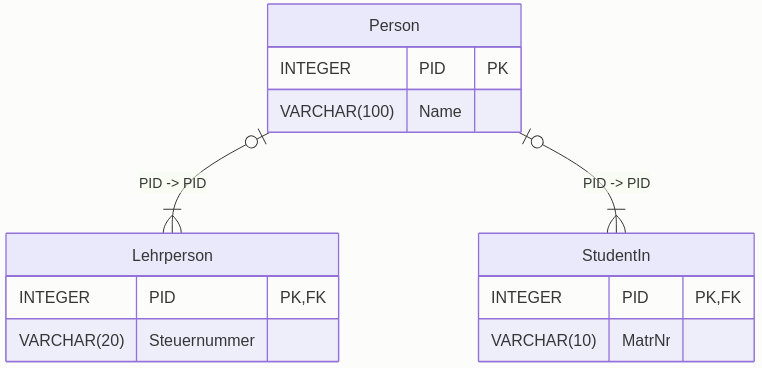
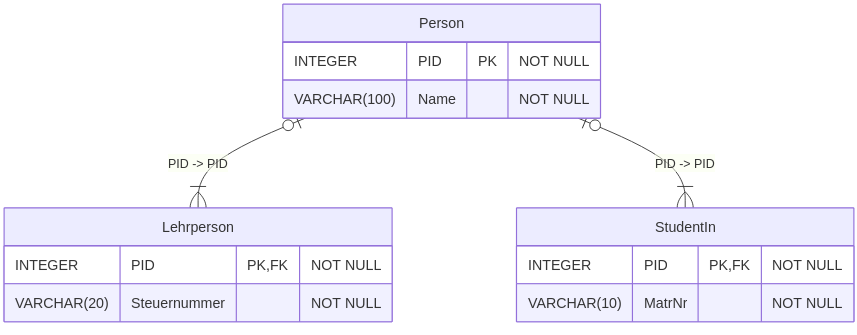
wip

diff --git a/home/lv/dmdb/er/er3.html b/home/lv/dmdb/er/er3.html
@@ -80,20 +80,17 @@ n: 18
 -->
 {% include padding-id.html id=6 %}
 <h1>Vererbung von Beziehungstypen</h1>
-<div class="w3-row-padding">
-    <div class="w3-col m8">
-        <img class="w3-image" src="/home/lv/dmdb/a/er3/d020.png"><br>
-        <img class="w3-image" src="/home/lv/dmdb/a/er3/d070-100.png">
-    </div>
-    <div class="w3-col m4">
-        <ul class="w3-large">
-            <li>Beziehungstyp geht auf Obertyp</li>
-            <li>Instanzen der Untertypen können an diesem Beziehungstyp teilnehmen</li>
-            <li>StudentIn und Lehrperson können Adresse haben</li>
-        </ul>
-    </div>
-</div>
+<ul class="w3-large">
+    <li>Beziehungstyp geht auf Obertyp</li>
+    <li>Instanzen der Untertypen können an diesem Beziehungstyp teilnehmen</li>
+    <li>StudentIn und Lehrperson können Adresse haben</li>
+</ul>
+<hr>
+<img class="w3-image" src="/home/lv/dmdb/a/er3/d020.png">
+<hr>
+<img class="w3-image" src="/home/lv/dmdb/a/er3/d021.png">
 <div class="ic-gap"></div>
+
 
 
 <!--
@@ -101,18 +98,13 @@ n: 18
 -->
 {% include padding-id.html id=7 %}
 <h1>Vollständigkeit der Generalisierung</h1>
-<div class="w3-row-padding">
-    <div class="w3-col m6">
-        <img class="w3-image" src="/home/lv/dmdb/a/er3/d080-100.png">
-    </div>
-    <div class="w3-col m6">
-        <ul class="w3-large">
-            <li>Keine Instanzen im Obertyp möglich</li>
-            <li>Weitere Untertypen zum Modell hinzufügen</li>
-            <li>Im Extremfall "Sonstige"</li>
-        </ul>
-    </div>
-</div>
+<ul class="w3-large">
+    <li>Keine Instanzen im Obertyp möglich</li>
+    <li>Weitere Untertypen zum Modell hinzufügen</li>
+    <li>Im Extremfall "Sonstige"</li>
+</ul>
+<hr>
+<img class="w3-image" src="/home/lv/dmdb/a/er3/d030.png">
 <div class="ic-gap"></div>
 
 
@@ -121,17 +113,12 @@ n: 18
 -->
 {% include padding-id.html id=8 %}
 <h1>Disjunktheit der Generalisierung</h1>
-<div class="w3-row-padding">
-    <div class="w3-col m6">
-        <img class="w3-image" src="/home/lv/dmdb/a/er3/d090-100.png">
-    </div>
-    <div class="w3-col m6">
-        <ul class="w3-large">
-            <li>Keine gemeinsamen Instanzen in zwei Untertypen</li>
-            <li>Erfordert anderes Modell</li>
-        </ul>
-    </div>
-</div>
+<ul class="w3-large">
+    <li>Keine gemeinsamen Instanzen in zwei Untertypen</li>
+    <li>Erfordert anderes Modell</li>
+</ul>
+<hr>
+<img class="w3-image" src="/home/lv/dmdb/a/er3/d031.png">
 <div class="ic-gap"></div>
 
 
@@ -140,7 +127,7 @@ n: 18
 -->
 {% include padding-id.html id=9 %}
 <h1>Vorteile vollständiger, disjunkter Generalisierungen</h1>
-<p class="w3-large ic-neg15">Bei Implementierung in einer objektorientierten Sprache wie Java</p>
+<p class="w3-large ic-neg15">Bei Implementierung in einer objektorientierten Sprache</p>
 <ul class="w3-large">
     <li>Abstrakte Oberklassen - verhindert versehentliche Objekterzeugung für Oberklasse</li>
     <li>Komplexere Umsetzung nichtdisjunkter Generalisierungen in Sprachen mit Einfachvererbung (wie Java)</li>
@@ -153,23 +140,16 @@ n: 18
 -->
 {% include padding-id.html id=10 %}
 <h1>Rollenmodell</h1>
-<img class="w3-image" src="/home/lv/dmdb/a/er3/d100-100.png">
-<div class="w3-row-padding">
-    <div class="w3-col m6">
-        <ul class="w3-large">
-            <li>Rolle "Sonstige" für Vollständigkeit</li>
-            <li>Keine Generalisierung auf Personen</li>
-            <li>Generalisierung auf Rollen</li>
-        </ul>
-    </div>
-    <div class="w3-col m6">
-        <ul class="w3-large">
-            <li>Rollen sind disjunkt</li>
-            <li>Daher vollständiges und disjunktes Modell</li>
-            <li>Dynamische Domäne "Rolle" - explizite Typinformation im Modell</li>
-        </ul>
-    </div>
-</div>
+<ul class="w3-large">
+    <li>Generalisierung auf PersonenRollen</li>
+    <li>Keine Generalisierung auf Personen</li>
+    <li>Rollen sind disjunkt</li>
+    <li>Rolle <code>Sonstige</code> für Vollständigkeit</li>
+    <li>Daher vollständiges und disjunktes Modell</li>
+    <li>Werteliste <code>Rolle</code> - explizite Typinformation im Modell</li>
+</ul>
+<hr>
+<img class="w3-image" src="/home/lv/dmdb/a/er3/d040.png">
 <div class="ic-gap"></div>
 
 
@@ -177,8 +157,11 @@ n: 18
     11 ******************************************************************
 -->
 {% include padding-id.html id=11 %}
-<h1>Rollemnmodell - Extension</h1>
-<img class="w3-image" src="/home/lv/dmdb/a/er3/d110-80.png">
+<h1>Rollenmodell - Extension</h1>
+<hr>
+<img class="w3-image" src="/home/lv/dmdb/a/er3/d041.png">
+<hr>
+<img class="w3-image" src="/home/lv/dmdb/a/er3/d042-80.png">
 <div class="ic-gap"></div>
 
 
@@ -187,13 +170,16 @@ n: 18
 -->
 {% include padding-id.html id=12 %}
 <h1>Generalisierung - Fehlerbeispiel</h1>
+
 <div class="w3-row-padding">
-    <div class="w3-col m5">
-        <img class="w3-image" src="/home/lv/dmdb/a/er3/d120a-130.png"><br>
-        <img class="w3-image" src="/home/lv/dmdb/a/er3/d130-130.png">
+    <div class="w3-col m6">
+        <h2>Fehlerhafte Modellierung</h2>
+        <img class="w3-image" src="/home/lv/dmdb/a/er3/d050.png">
+        <p class="w3-large">Verletzung Substitutionsprinzip</p>
     </div>
-    <div class="w3-col m7">
-        <p class="w3-large ic-neg15">Verletzung Substitutionsprinzip</p>
+    <div class="w3-col m6">
+        <h2>Richtiges Modell</h2>
+        <img class="w3-image" src="/home/lv/dmdb/a/er3/d051.png">
     </div>
 </div>
 <div class="ic-gap"></div>
@@ -244,19 +230,14 @@ public class Rechteck extends Quadrat {
 -->
 {% include padding-id.html id=14 %}
 <h1 class="ic-neg10">Übersetzungstrategien ER nach Rel</h1>
-<div class="w3-row-padding">
-    <div class="w3-col m6">
-        <img class="w3-image" src="/home/lv/dmdb/a/er3/d010.png">
-        <ul class="w3-large">
-            <li>Eine Tabelle pro Entitätstyp</li>
-            <li>Eine Tabelle für die gesamte Hierarchie</li>
-        </ul>
-    </div>
-    <div class="w3-col m6">
-        <img class="w3-image" src="/home/lv/dmdb/a/er3/d013.png"><br><hr class="ic-hr">
-        <img class="w3-image" src="/home/lv/dmdb/a/er3/d140-130.png">
-    </div>
-</div>
+<h2>Generalisierung</h2>
+<img class="w3-image" src="/home/lv/dmdb/a/er3/d010.png">
+
+<h2>Übersetzung: Eine Tabelle pro Entitätstyp</h2>
+<img class="w3-image" src="/home/lv/dmdb/a/er3/d013.png">
+
+<h2>Übersetzung: Eine Tabelle für die gesamte Hierarchie</h2>
+<img class="w3-image" src="/home/lv/dmdb/a/er3/d060.png">
 <div class="ic-gap"></div>
 
 
@@ -265,25 +246,19 @@ public class Rechteck extends Quadrat {
 -->
 {% include padding-id.html id=15 %}
 <h1>Bewertung Übersetzungstrategien</h1>
-<div class="w3-row-padding">
-    <div class="w3-col m6">
-        <ul class="w3-large">
-            <li>Eine Tabelle pro Entitätstyp</li>
-            <ul>
-                <li>Not-NULL-Constraints für Untertypen bleiben erhalten</li>
-                <li>Verbund erforderlich</li>
-            </ul>
-            <li>Eine Tabelle für die gesamte Hierarchie</li>
-            <ul>
-                <li>Keine Not-NULL-Constraints in Untertypen</li>
-                <li>Kein Verbund erforderlich</li>
-            </ul>
-        </ul>
-    </div>
-    <div class="w3-col m6">
-        <img class="w3-image" src="/home/lv/dmdb/a/er3/d150-100.png">
-    </div>
-        </div>
+<ul class="w3-large">
+    <li>Eine Tabelle pro Entitätstyp</li>
+    <ul>
+        <li>Not-NULL-Constraints für Untertypen bleiben erhalten</li>
+        <li>Verbund erforderlich</li>
+    </ul>
+    <li>Eine Tabelle für die gesamte Hierarchie</li>
+    <ul>
+        <li>Keine Not-NULL-Constraints in Untertypen</li>
+        <li>Kein Verbund erforderlich</li>
+    </ul>
+</ul>
+<img class="w3-image" src="/home/lv/dmdb/a/er3/d061.png">
 <div class="ic-gap"></div>
 
 
@@ -292,7 +267,9 @@ public class Rechteck extends Quadrat {
 -->
 {% include padding-id.html id=16 %}
 <h1 class="ic-neg10">Bibliothek - Nutzer</h1>
-<img class="w3-image" src="/home/lv/dmdb/a/er3/d160-130.png">
+<img class="w3-image" src="/home/lv/dmdb/a/er3/d070.png">
+<hr>
+<img class="w3-image" src="/home/lv/dmdb/a/er3/d071.png">
 <div class="ic-gap"></div>
 
 
@@ -301,7 +278,7 @@ public class Rechteck extends Quadrat {
 -->
 {% include padding-id.html id=17 %}
 <h1 class="ic-neg10">Bibliothek - Medien</h1>
-<img class="w3-image" src="/home/lv/dmdb/a/er3/d170-130.png">
+<img class="w3-image" src="/home/lv/dmdb/a/er3/d072.png">
 <div class="ic-gap"></div>
 
 
@@ -310,7 +287,7 @@ public class Rechteck extends Quadrat {
 -->
 {% include padding-id.html id=18 %}
 <h1 class="ic-neg10">Bibliothek - Ausleihe</h1>
-<img class="w3-image" src="/home/lv/dmdb/a/er3/d180-130.png">
+<img class="w3-image" src="/home/lv/dmdb/a/er3/d073.png">
 <div class="ic-gap"></div>
 
 